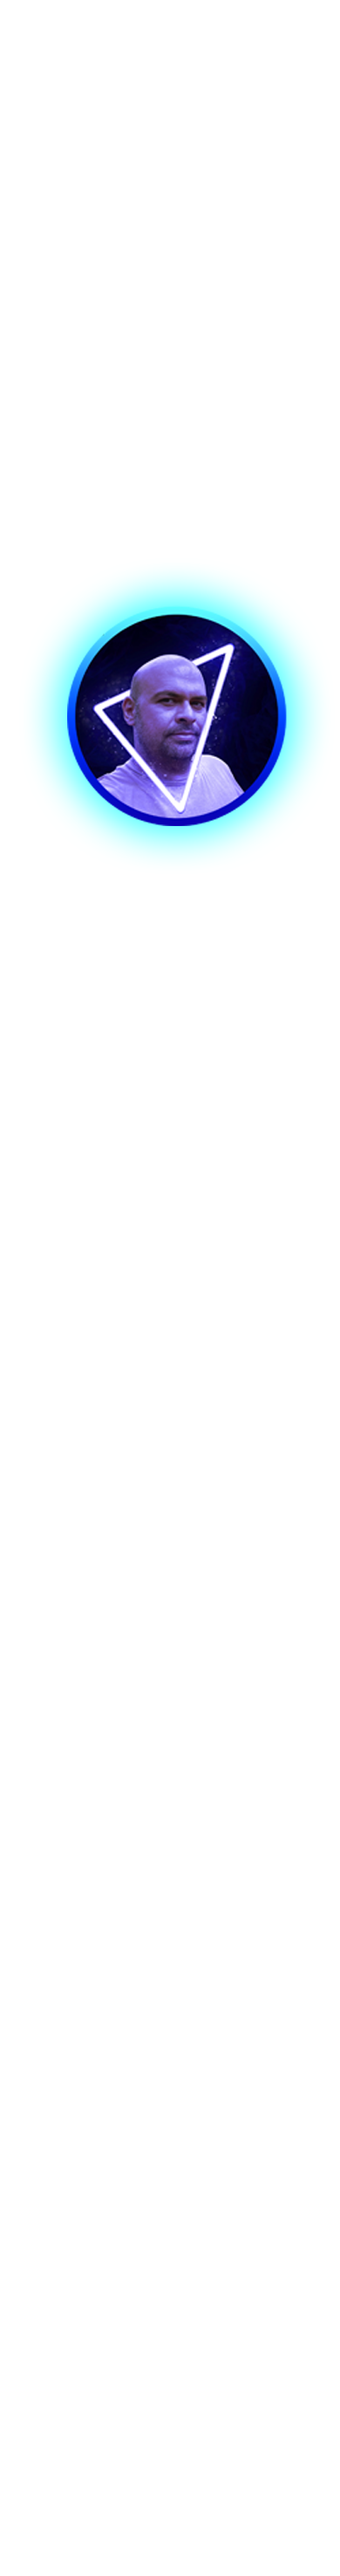
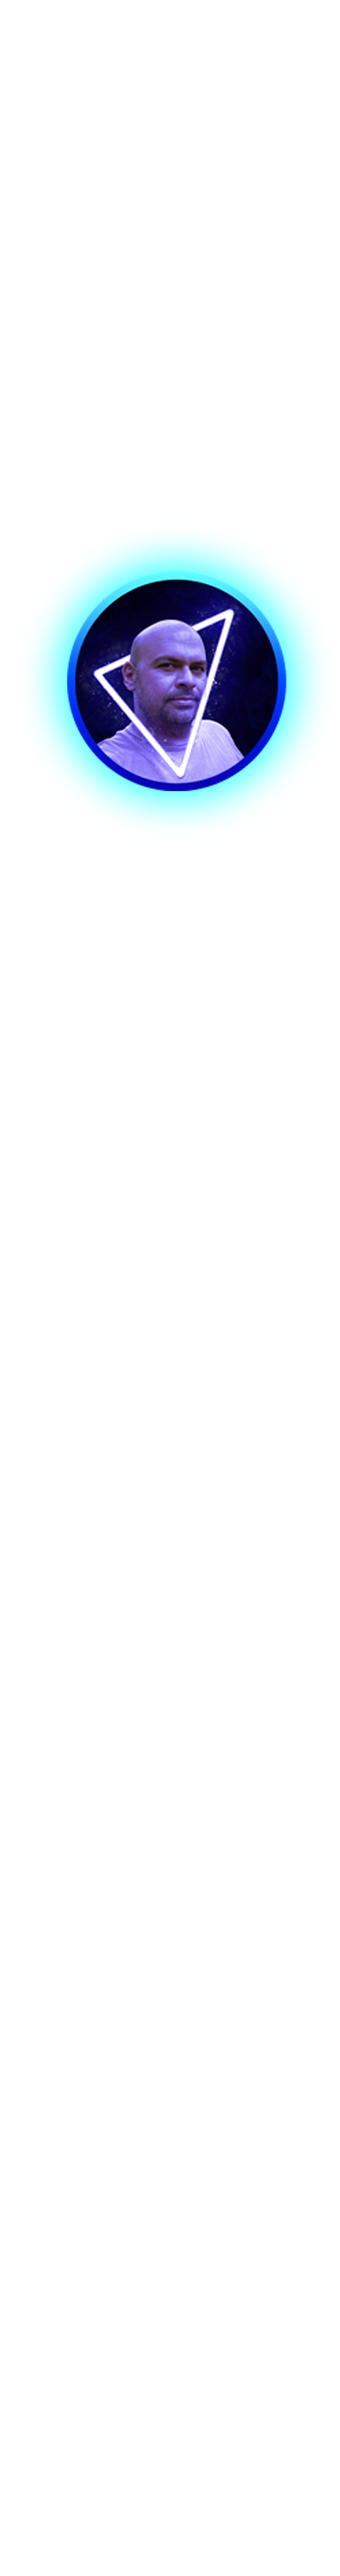
cuarto cambio

Changed region(s): [[0.1231, 0.1869, 0.9231, 0.3427]]

diff --git a/style.css b/style.css
@@ -645,7 +645,7 @@ body {
     .home {
         background: url(./img/fondomovil.png);
         flex-direction: column;
-        padding: 50px 5% 0;
+        padding: 20px 5% 0;
         text-align: center;
         height: 120vh;
     }
